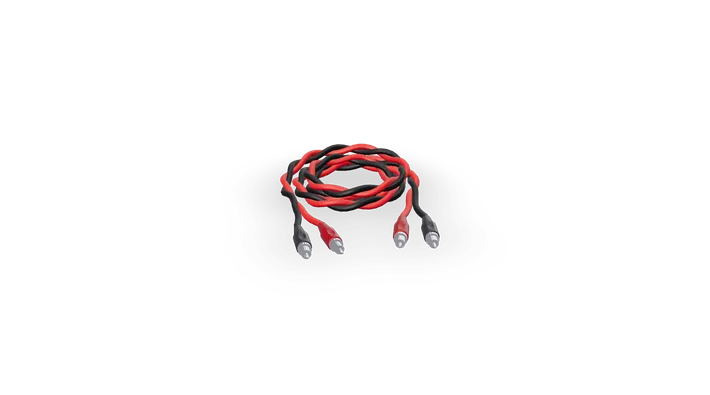
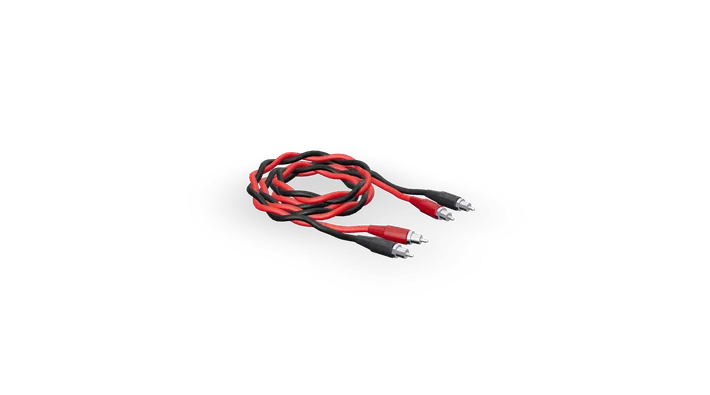
feat(modelos-3d): giro de reposo por modelo (bocina y subwoofer 45° a la izquierda, RCA 45° a la derecha)
giroReposo en lib/models3d.ts se suma al giro del ciclo en ProductModel3D, sin
tocar los .glb. Imágenes estáticas de los tres regeneradas con posters.mjs.

Changed region(s): [[0.3408, 0.3646, 0.6817, 0.6684]]

diff --git a/lib/models3d.ts b/lib/models3d.ts
@@ -32,10 +32,16 @@ export interface ModelEntry {
   displayScale: number; // escala real^0.65, normalizada al modelo más grande
   radius: number; // radio horizontal en metros, sin escalar
   height: number; // altura en metros, sin escalar (el modelo apoya en Y=0)
-  // No hay giro por modelo: desde la v3 todos los .glb salen con el frente
-  // hacia −Z (`front=` en su script de Blender). El antiguo `giroBase`
-  // corregía acá lo que cada .glb había decidido por su cuenta. Si un
-  // producto aparece de espaldas, se arregla el `front` del script.
+  // Desde la v3 todos los .glb salen con el frente hacia −Z (`front=` en su
+  // script de Blender). El antiguo `giroBase` corregía acá lo que cada .glb
+  // había decidido por su cuenta, y ya no existe: si un producto aparece de
+  // espaldas, se arregla el `front` del script.
+  // Giro de la pose predeterminada, en radianes sobre Y. NO corrige un frente
+  // mal puesto: es una decisión de cómo se ve el producto en reposo. Negativo
+  // es de derecha a izquierda, el mismo sentido del giro del ciclo. Se suma al
+  // giro del ciclo en `ProductModel3D`, así que el modelo arranca y termina
+  // cada vuelta en esta pose. Sin valor es 0.
+  giroReposo?: number;
   // Zoom por defecto de ESTE modelo, por encima de lo que le da displayScale:
   // multiplica la escala con la que se dibuja, y nada más —no toca el
   // encuadre de la cámara ni FRAME_RADIUS, que dependen del modelo más
@@ -66,6 +72,8 @@ export interface ModelEntry {
 // escribe cada export (scripts/models3d_v3/medidas/). Salen los nueve
 // juntos, porque la normalización cuelga del modelo más grande: hoy
 // sound-deadening (radio 0.2480, displayScale 1.0000).
+const GIRO_45_DERECHA_A_IZQUIERDA = -Math.PI / 4;
+
 export const MODELS: Record<ModelId, ModelEntry> = {
   speaker: {
     archivo: "speaker-7.glb",
@@ -73,6 +81,7 @@ export const MODELS: Record<ModelId, ModelEntry> = {
     radius: 0.0825,
     height: 0.07,
     ajusteVista: 1.25,
+    giroReposo: GIRO_45_DERECHA_A_IZQUIERDA,
     label: "Bocinas",
     href: "/catalogo/bocinas",
   },
@@ -118,6 +127,7 @@ export const MODELS: Record<ModelId, ModelEntry> = {
     displayScale: 1.1722,
     radius: 0.1575,
     height: 0.1652,
+    giroReposo: GIRO_45_DERECHA_A_IZQUIERDA,
     label: "Subwoofers",
     href: "/catalogo/subwoofers",
   },
@@ -142,6 +152,9 @@ export const MODELS: Record<ModelId, ModelEntry> = {
     displayScale: 1.3043,
     radius: 0.1161,
     height: 0.0242,
+    // 45° de derecha a izquierda como los otros dos, y después 90° de
+    // izquierda a derecha: queda a 45° de izquierda a derecha.
+    giroReposo: GIRO_45_DERECHA_A_IZQUIERDA + Math.PI / 2,
     label: "Accesorios",
     href: "/catalogo/accesorios",
   },

diff --git a/components/home/ProductModel3D.tsx b/components/home/ProductModel3D.tsx
@@ -44,10 +44,14 @@ export function ProductModel3D({ id, offsetX = 0, anguloRef }: ProductModel3DPro
   const spinner = useRef<Group>(null);
 
   useFrame(() => {
-    // Solo el giro del ciclo: los .glb ya traen el frente hacia −Z, que es
-    // hacia donde mira la cámara en la vista predeterminada (CLAUDE.md
-    // § Modelos 3D). No hay giro base por modelo.
-    if (spinner.current) spinner.current.rotation.y = anguloRef?.current ?? 0;
+    // Los .glb ya traen el frente hacia −Z, que es hacia donde mira la
+    // cámara en la vista predeterminada (CLAUDE.md § Modelos 3D). Sobre eso
+    // va el giro de reposo del modelo, si tiene (`giroReposo`), y encima el
+    // giro del ciclo, que es absoluto y arranca en 0: el modelo vuelve a su
+    // pose de reposo al terminar cada vuelta.
+    if (spinner.current) {
+      spinner.current.rotation.y = (entry.giroReposo ?? 0) + (anguloRef?.current ?? 0);
+    }
   });
 
   // Los .glb apoyan en Y = 0 (Ymin = 0 es convención del pipeline). Para

diff --git a/CLAUDE.md b/CLAUDE.md
@@ -583,6 +583,8 @@ No es caballera estricta y no pretende serlo: la caballera es una proyección OB
 
 Hasta la v2 ese giro global no alcanzaba: cada modelo había decidido por su cuenta hacia dónde apuntaba su frente, y el manifiesto lo corregía con un `giroBase` por modelo. **Desde la v3 `finalize(front=...)` deja todos los frentes hacia −Z y `giroBase` no existe.** Si un producto aparece de espaldas, se corrige el `front` de su script y se regenera — nunca el azimut global, que movería a los nueve.
 
+**La bocina y el subwoofer arrancan girados 45° de derecha a izquierda, y el cable RCA 45° de izquierda a derecha** (decisión del negocio, noviembre de 2026; el RCA empezó en −45° y se le giraron 90° más): `giroReposo` en `lib/models3d.ts` (−π/4, el mismo sentido del giro del ciclo), que `ProductModel3D` suma al ángulo del ciclo. No es una corrección de frente —los .glb siguen con el frente hacia −Z, y no cambian ni su nombre ni su peso—, sino la pose en la que se ven en reposo, y como el giro del ciclo es absoluto y de una vuelta exacta, cada vuelta empieza y termina en esa pose. Los vecinos que esperan su turno también la llevan. **Su imagen estática se regeneró** (`posters.mjs`); si se cambia `giroReposo` de cualquier modelo, hay que volver a correrlo, porque el test solo comprueba que el archivo exista.
+
 Cuidado al juzgar «de frente o de espaldas» a ojo: en el ecualizador, los RCA traseros llevan aro `accent-orange` y se parecen bastante a perillas. La fila de controles reales es la de cilindros oscuros del canto frontal.
 
 #### Encuadre: el producto no toca el chrome ni los bordes
